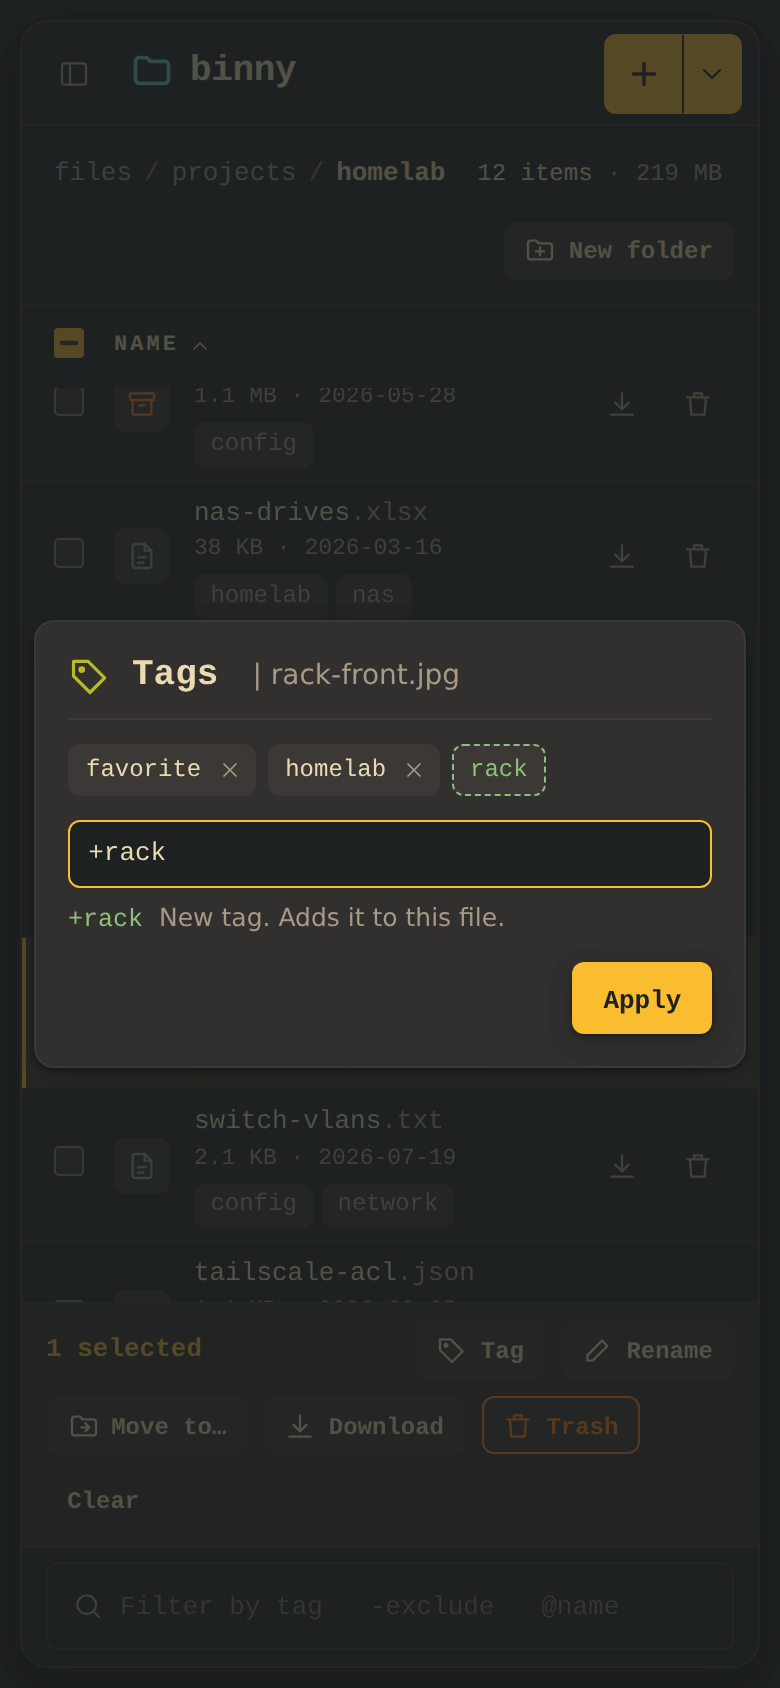
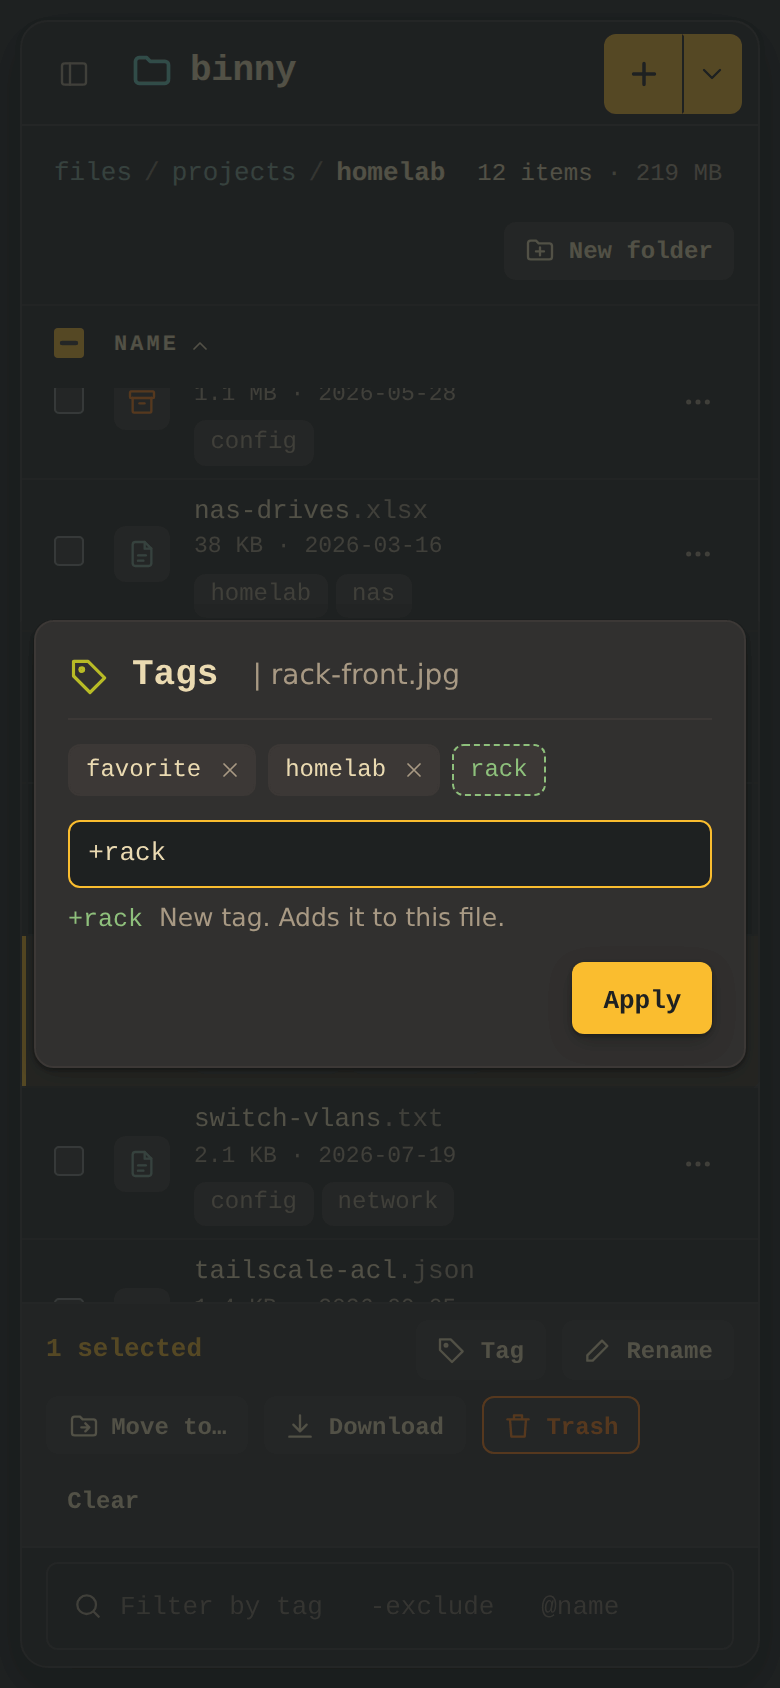
Put each row's actions behind a "..." menu
Five icon buttons per row (tags, rename, move, download, trash) took about
150px, which squeezed file names to a couple of letters well before the phone
layout, and on phones left rename, move and tags out of reach on a row. One
"..." button per row now opens a small menu with all of them; the trash's rows
get Restore and Delete forever the same way. The menu is a keyboard-reachable
menu (arrows, Home/End, Escape back to the button), opens upward near the
bottom of the window, and the README screenshots are retaken.

Claude-Session: https://claude.ai/code/session_01Cb3afPY72Cc7pxDSGxERfP

diff --git a/binny/static/js/explorer.js b/binny/static/js/explorer.js
@@ -5,6 +5,7 @@
 import * as api from './api.js';
 import { openMove } from './move.js';
 import { ancestors, byName, currentFolder, currentSearch, fileUrl, folderHash, isTrash, nameOf, parentOf, searchHash } from './paths.js';
+import { menuButton, openMenu } from './rowmenu.js';
 import { clickSelect, markRows } from './selection.js';
 import { filesChanged, state } from './state.js';
 import { openTagger } from './tagger.js';
@@ -77,6 +78,23 @@ function splitName(item) {
 
 const itemAt = (path) => state.items.find((item) => item.path === path);
 
+/** What a row's "…" menu does, by the action each entry names. */
+const ROW_ACTIONS = {
+    tags: (item) => openTagger([item.path]),
+    rename,
+    move: (item) => openMove([item.path]),
+    download: (item) => download([item.path]),
+    trash: (item) => trashItems([item.path]),
+};
+
+const rowEntries = (item) => [
+    { act: 'tags', label: 'Tags', iconName: 'tag', key: 'T' },
+    { act: 'rename', label: 'Rename', iconName: 'rename', key: 'F2' },
+    { act: 'move', label: 'Move to…', iconName: 'move', key: 'M' },
+    { act: 'download', label: item.is_dir ? 'Download zip' : 'Download', iconName: 'download' },
+    { act: 'trash', label: 'Move to trash', iconName: 'trash', key: 'Del', danger: true },
+];
+
 function sizeLabel(item) {
     if (!item.is_dir) return formatSize(item.size);
     return item.items ? `<span class="sub">${plural(item.items, 'item')} · </span>${formatSize(item.size)}` : '<span class="sub">empty</span>';
@@ -101,13 +119,7 @@ function row(item) {
         <td class="col-tags">${tagChips(item, '')}</td>
         <td class="num r col-size">${sizeLabel(item)}</td>
         <td class="num col-mod" title="${esc(new Date(item.mtime * 1000).toLocaleString())}">${date}</td>
-        <td><div class="acts">
-            <button class="icon-btn opt" type="button" data-act="tags" title="Tags (T)" aria-label="Tags">${icon('tag')}</button>
-            <button class="icon-btn opt" type="button" data-act="rename" title="Rename (F2)" aria-label="Rename">${icon('rename')}</button>
-            <button class="icon-btn opt" type="button" data-act="move" title="Move (M)" aria-label="Move">${icon('move')}</button>
-            <a class="icon-btn" href="${esc(fileUrl(item.path, true))}" download title="Download${item.is_dir ? ' as zip' : ''}" aria-label="Download">${icon('download')}</a>
-            <button class="icon-btn del" type="button" data-act="trash" title="Move to trash (Del)" aria-label="Move to trash">${icon('trash')}</button>
-        </div></td>
+        <td><div class="acts">${menuButton}</div></td>
     </tr>`;
 }
 
@@ -261,10 +273,10 @@ export function initExplorer() {
             return;
         }
         const action = event.target.closest('[data-act]')?.dataset.act;
-        if (action === 'tags') return openTagger([tr.dataset.path]);
-        if (action === 'rename') return rename(itemAt(tr.dataset.path));
-        if (action === 'move') return openMove([tr.dataset.path]);
-        if (action === 'trash') return trashItems([tr.dataset.path]);
+        if (action === 'menu') {
+            const item = itemAt(tr.dataset.path);
+            return openMenu(event.target.closest('[data-act]'), rowEntries(item), (act) => ROW_ACTIONS[act](item));
+        }
         if (event.target.closest('a')) return; // links open or download by themselves
         anchor = clickSelect(state.selected, sorted(state.items).map((item) => item.path), tr.dataset.path, event, anchor);
         renderSelection();

diff --git a/binny/static/js/rowmenu.js b/binny/static/js/rowmenu.js
@@ -1,0 +1,64 @@
+/** The "…" menu at the end of a row: a row's actions behind one button, so a long name keeps its room. */
+import { $, esc, icon } from './ui.js';
+
+let opener = null; // the "…" button the menu hangs from
+
+/** The button that opens a row's menu. */
+export const menuButton = `<button class="icon-btn" type="button" data-act="menu" title="Actions" aria-label="Actions" aria-haspopup="menu" aria-expanded="false">${icon('more')}</button>`;
+
+function closeMenu() {
+    $('rowMenu').hidden = true;
+    opener?.setAttribute('aria-expanded', 'false');
+    opener = null;
+}
+
+/**
+ * Open the menu under a row's "…" button, or close it if that button's menu is already open.
+ * entries are { act, label, iconName, key?, danger? }; choose(act) runs the one picked.
+ */
+export function openMenu(button, entries, choose) {
+    const menu = $('rowMenu');
+    if (opener === button) return closeMenu();
+    closeMenu();
+    menu.innerHTML = entries.map(({ act, label, iconName, key = '', danger = false }) => `
+        <button type="button" role="menuitem" data-act="${act}"${danger ? ' class="danger"' : ''}>${icon(iconName)}<span>${esc(label)}</span>${key && `<span class="kbd">${key}</span>`}</button>`).join('');
+    menu.hidden = false;
+    menu.onclick = (event) => {
+        const act = event.target.closest('[data-act]')?.dataset.act;
+        if (!act) return;
+        closeMenu();
+        choose(act);
+    };
+    opener = button;
+    button.setAttribute('aria-expanded', 'true');
+    // Under the button and against its right edge, or above it when the window ends first.
+    const box = button.getBoundingClientRect();
+    const { width, height } = menu.getBoundingClientRect();
+    menu.style.left = `${Math.max(8, Math.min(box.right - width, innerWidth - width - 8))}px`;
+    menu.style.top = `${box.bottom + height + 8 > innerHeight ? Math.max(8, box.top - height - 4) : box.bottom + 4}px`;
+    menu.firstElementChild.focus();
+}
+
+export function initRowMenu() {
+    const menu = $('rowMenu');
+    menu.addEventListener('keydown', (event) => {
+        const items = [...menu.children];
+        const at = items.indexOf(document.activeElement);
+        const move = { ArrowDown: at + 1, ArrowUp: at - 1, Home: 0, End: items.length - 1 }[event.key];
+        if (move !== undefined) {
+            event.preventDefault();
+            items[(move + items.length) % items.length].focus();
+        } else if (event.key === 'Escape' || event.key === 'Tab') {
+            event.preventDefault();
+            event.stopPropagation(); // not the page's Escape, which clears the selection
+            const button = opener;
+            closeMenu();
+            button.focus();
+        }
+    });
+    document.addEventListener('click', (event) => !event.target.closest('#rowMenu, [data-act=menu]') && closeMenu());
+    document.addEventListener('scroll', closeMenu, true);
+    window.addEventListener('resize', closeMenu);
+    window.addEventListener('files-changed', closeMenu);
+    window.addEventListener('hashchange', closeMenu);
+}

diff --git a/binny/static/js/trash.js b/binny/static/js/trash.js
@@ -1,6 +1,7 @@
 /** The trash: moving things into it (with undo), and the trash view, where they're restored or deleted for good. */
 import * as api from './api.js';
 import { isTrash, nameOf, parentOf } from './paths.js';
+import { menuButton, openMenu } from './rowmenu.js';
 import { clickSelect, markRows } from './selection.js';
 import { filesChanged, state } from './state.js';
 import { $, ask, esc, formatDate, formatSize, icon, plural, toast } from './ui.js';
@@ -10,6 +11,11 @@ const selected = new Set(); // names in the trash
 let anchor = null;
 
 const itemNamed = (name) => items.find((item) => item.name === name);
+
+const ROW_ENTRIES = [
+    { act: 'restore', label: 'Restore', iconName: 'restore' },
+    { act: 'delete', label: 'Delete forever', iconName: 'trash', danger: true },
+];
 
 /** Move paths to the trash, with an Undo in the toast. */
 export async function trashItems(paths) {
@@ -93,10 +99,7 @@ function row(item) {
         <td class="num r col-size">${formatSize(item.size)}</td>
         <td class="col-mod"><span class="path">${esc(where)}</span></td>
         <td class="num col-mod" title="${esc(new Date(item.trashed_at * 1000).toLocaleString())}">${date}</td>
-        <td><div class="acts acts--shown">
-            <button class="cc-btn cc-btn--ghost cc-btn--sm" type="button" data-act="restore">${icon('restore')}<span>Restore</span></button>
-            <button class="icon-btn del" type="button" data-act="delete" title="Delete forever" aria-label="Delete forever">${icon('trash')}</button>
-        </div></td>
+        <td><div class="acts">${menuButton}</div></td>
     </tr>`;
 }
 
@@ -148,8 +151,10 @@ export function initTrash() {
             return;
         }
         const action = event.target.closest('[data-act]')?.dataset.act;
-        if (action === 'restore') return restore([tr.dataset.name]);
-        if (action === 'delete') return deleteForever([tr.dataset.name]);
+        if (action === 'menu') {
+            const name = tr.dataset.name;
+            return openMenu(event.target.closest('[data-act]'), ROW_ENTRIES, (act) => (act === 'restore' ? restore : deleteForever)([name]));
+        }
         anchor = clickSelect(selected, items.map((item) => item.name), tr.dataset.name, event, anchor);
         renderSelection();
     });

diff --git a/binny/static/css/style.css b/binny/static/css/style.css
@@ -151,6 +151,11 @@ svg.i { width: 16px; height: 16px; fill: none; stroke: currentColor; stroke-widt
 .menu b { display: block; font-family: var(--font-mono); font-size: 13px; }
 .menu small { display: block; color: var(--fg-muted); font-size: 12px; }
 .menu .kbd { margin-left: auto; }
+/* A row's "…" menu: fixed, so the list's scrolling can't clip it; rowmenu.js sets left and top. */
+.menu--row { position: fixed; right: auto; min-width: 200px; padding: 4px; }
+.menu--row button { gap: var(--app-space-3); padding: var(--app-space-2) var(--app-space-3); font-family: var(--font-mono); font-size: 13px; }
+.menu--row button > .i { width: 16px; height: 16px; color: var(--fg-muted); }
+.menu--row button.danger, .menu--row button.danger > .i { color: var(--accent-warm); }
 .grow { flex: 1; }
 .body { flex: 1; min-height: 0; display: flex; }
 
@@ -274,9 +279,8 @@ a.cc-tag:hover, button.cc-tag:hover { border-color: var(--accent-text); color: v
 .num .sub, .meta .sub { color: var(--fg-subtle); }
 .r { text-align: right !important; }
 .acts { display: flex; justify-content: flex-end; gap: 2px; opacity: 0; transition: opacity 120ms ease; }
-tr.row:hover .acts, tr.row:focus-within .acts, .acts--shown { opacity: 1; }
+tr.row:hover .acts, tr.row:focus-within .acts, .acts:has([aria-expanded="true"]) { opacity: 1; }
 .acts .icon-btn { width: 28px; height: 28px; }
-.acts .del:hover { color: var(--accent-warm); }
 @media (hover: none) {
     .acts { opacity: 1; }
 }
@@ -413,7 +417,6 @@ input[type="checkbox"] { accent-color: var(--accent); width: 15px; height: 15px;
     .meta { display: block; }
     .meta-tags { display: flex; }
     .acts { opacity: 1; }
-    .acts .opt { display: none; }
     .acts .icon-btn { width: 36px; height: 36px; }
     .uploads { left: var(--app-space-4); right: var(--app-space-4); bottom: calc(var(--dock) + var(--app-space-4)); width: auto; }
     .toast { inset-block-end: calc(var(--dock) + var(--app-space-5) + env(safe-area-inset-bottom)); }

diff --git a/binny/templates/base.html b/binny/templates/base.html
@@ -38,6 +38,7 @@
         <symbol id="i-panel" viewBox="0 0 24 24"><rect x="3" y="4" width="18" height="16" rx="2"/><path d="M9 4v16"/></symbol>
         <symbol id="i-x" viewBox="0 0 24 24"><path d="M6 6l12 12M18 6 6 18"/></symbol>
         <symbol id="i-logout" viewBox="0 0 24 24"><path d="M9 21H5a2 2 0 0 1-2-2V5a2 2 0 0 1 2-2h4M16 17l5-5-5-5M21 12H9"/></symbol>
+        <symbol id="i-more" viewBox="0 0 24 24"><circle cx="5" cy="12" r="1"/><circle cx="12" cy="12" r="1"/><circle cx="19" cy="12" r="1"/></symbol>
         <symbol id="i-upload" viewBox="0 0 24 24"><path d="M12 16V4M7 9l5-5 5 5M4 20h16"/></symbol>
     </svg>
     {% block body %}{% endblock %}

diff --git a/binny/static/js/main.js b/binny/static/js/main.js
@@ -3,6 +3,7 @@ import { initDownloads } from './downloads.js';
 import { initDrop } from './drop.js';
 import { initExplorer } from './explorer.js';
 import { initMove } from './move.js';
+import { initRowMenu } from './rowmenu.js';
 import { initSearch } from './search.js';
 import { initShortcuts } from './shortcuts.js';
 import { initSidebar } from './sidebar.js';
@@ -18,6 +19,7 @@ initUi();
 initSidebar();
 initTags();
 initSearch();
+initRowMenu();
 initExplorer();
 initTrash();
 initTagger();

diff --git a/binny/templates/index.html b/binny/templates/index.html
@@ -109,6 +109,8 @@
 
 <input type="file" id="filePicker" multiple hidden>
 
+<div class="menu menu--row" id="rowMenu" role="menu" hidden></div>
+
 <div class="toast" id="toast" role="status" popover="manual"></div>
 
 <dialog class="cc-settings-card dialog" id="askDialog" aria-labelledby="askTitle">

diff --git a/CLAUDE.md b/CLAUDE.md
@@ -154,7 +154,7 @@ neighbour.
 | `binny/downloader.py` | Upload from link: the download jobs, kept in memory, each run in a thread of its own. |
 | `binny/api/` | One Flask blueprint per resource, all under `/api`: `files` (list, upload, rename, move), `folders` (the sidebar's tree and counts, every folder for the download picker, new folder), `trash` (trash, restore, delete forever, empty), `tags` (tags in use, tagging, renaming or deleting a tag everywhere, and `/api/search`), `downloads` (start, list, cancel, clear the finished). `common.py` turns request arguments into checked paths and names or aborts with the message the UI shows. |
 | `binny/templates/` | `base.html` (head, the theme script, the icon sprite), `login.html`, `index.html` (the app shell). |
-| `binny/static/js/` | ES modules, one per concern, entry `main.js` loaded with `<script type="module">`: `api.js`, `ui.js` (escaping, formatting, the toast, the question dialog), `paths.js`, `state.js`, `selection.js` (click, Ctrl- and Shift-click selection for any table), `explorer.js` (breadcrumb and file table, or a search's results), `trash.js` (trashing with undo, and the trash view), `sidebar.js` (folder tree), `tags.js` (the tags in use, the tag syntax the search box and the tag editor share, the sidebar's Tags), `search.js` (the search box), `tagger.js` (the tag editor), `upload.js`, `downloads.js` (the "+" button's menu and the downloads panel), `move.js`, `drop.js` (all drag and drop), `shortcuts.js`, `theme.js`. |
+| `binny/static/js/` | ES modules, one per concern, entry `main.js` loaded with `<script type="module">`: `api.js`, `ui.js` (escaping, formatting, the toast, the question dialog), `paths.js`, `state.js`, `selection.js` (click, Ctrl- and Shift-click selection for any table), `explorer.js` (breadcrumb and file table, or a search's results), `trash.js` (trashing with undo, and the trash view), `rowmenu.js` (the "…" menu at the end of each row, in the file list and the trash: a row's actions behind one button so a long name keeps its room), `sidebar.js` (folder tree), `tags.js` (the tags in use, the tag syntax the search box and the tag editor share, the sidebar's Tags), `search.js` (the search box), `tagger.js` (the tag editor), `upload.js`, `downloads.js` (the "+" button's menu and the downloads panel), `move.js`, `drop.js` (all drag and drop), `shortcuts.js`, `theme.js`. |
 | `binny/static/css/` | `cavecomputing.css` (the design system's `bundle.css`, copied unchanged) and `style.css` (the tokens and Binny's own layout). |
 | `tests/` | pytest, one file per blueprint or module. |
 | `docker/` | `Dockerfile`, `compose.yml` and `entrypoint.sh`, as in imgy: gunicorn with one gthread worker on port 5000, and `/data` handed to `PUID`:`PGID` (`setpriv`, so no apt layer). |
